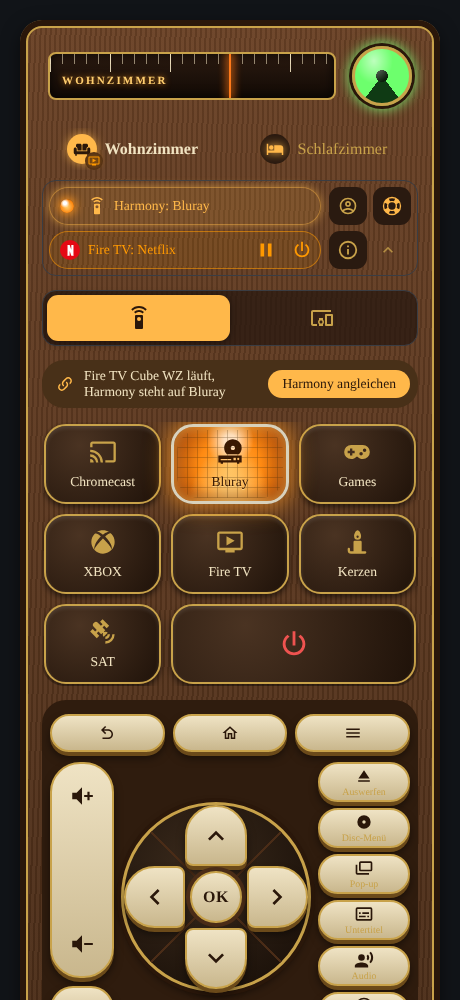
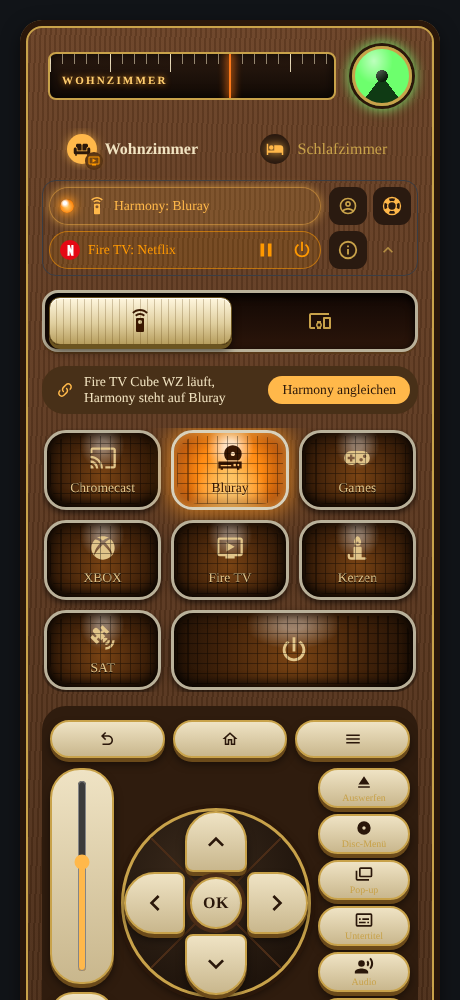
0.15.2: skin polish (lamp tiles, toggle, rocker plate, wedge slider, unified Terminal active state)
Claude-Session: https://claude.ai/code/session_01C4mVoyL7euChyLVoviBRrn

Changed region(s): [[0.0913, 0.279, 0.913, 1.0]]

diff --git a/custom_components/harmony_deck/frontend/harmony-deck-card.js b/custom_components/harmony_deck/frontend/harmony-deck-card.js
@@ -191,7 +191,7 @@
   var esc = (s) => String(s).replace(/[&<>"]/g, (c) => ({ "&": "&amp;", "<": "&lt;", ">": "&gt;", '"': "&quot;" })[c]);
 
   // src/shared/version.js
-  var VERSION = "0.15.1";
+  var VERSION = "0.15.2";
 
   // src/shared/i18n.js
   var TEXT_URL = "/harmony_deck/translations";
@@ -4920,13 +4920,23 @@ ${a.steps.map((x, i) => `${i + 1}. ${stepLabel(x, t, this)}`).join("\n")}` : a.n
       ${T} .grid { grid-template-columns: 1fr !important; gap: 4px !important; }
       ${T} .tile:not(.dev) { display: flex; flex-direction: row; justify-content: flex-start; align-items: center; gap: 10px; text-align: left; padding: 8px 12px; min-height: 44px; }
       ${T} .tile:not(.dev)::before { content: ">"; color: #1fa63f; margin-right: 2px; }
-      ${T} .tile.on { background: #3dff6b; color: #021a05; text-shadow: none; }
+      ${T} .tile.on, ${T} .tile.dev.sel, ${T} .actbtn.acton, ${T} .key.sel, ${T} .mini.sel { background: #3dff6b; color: #021a05; text-shadow: none; box-shadow: 0 0 14px rgba(61,255,107,.55); outline: none; }
       ${T} .tile.on:not(.dev)::before { content: "\\25B6"; color: #021a05; }
-      ${T} .tile.on ha-icon, ${T} .tile.on span { color: #021a05; filter: none; text-shadow: none; }
-      ${T} .sw i { border-radius: 0; background: #021a05; border: 1px solid #1fa63f; }
-      ${T} .sw i::after { border-radius: 0; width: 20px; height: 20px; top: 3px; background: #1fa63f; }
-      ${T} .sw input:checked + i { background: rgba(61,255,107,.2); }
-      ${T} .sw input:checked + i::after { transform: translateX(20px); background: #3dff6b; box-shadow: 0 0 8px #3dff6b; }
+      ${T} .tile.on ha-icon, ${T} .tile.on span, ${T} .tile.on small, ${T} .tile.dev.sel ha-icon, ${T} .tile.dev.sel span, ${T} .tile.dev.sel small, ${T} .actbtn.acton *, ${T} .key.sel *, ${T} .mini.sel * { color: #021a05 !important; filter: none; text-shadow: none; }
+      /* switches: off = hollow block, on = filled block (like the active tiles) */
+      ${T} .sw:has(> input) i { border-radius: 0; background: #021a05; border: 1px solid #3dff6b; }
+      ${T} .sw:has(> input) i::after { border-radius: 0; width: 20px; height: 20px; top: 3px; background: #1fa63f; }
+      ${T} .sw:has(> input) input:checked + i { background: #3dff6b; box-shadow: 0 0 10px rgba(61,255,107,.6); }
+      ${T} .sw:has(> input) input:checked + i::after { transform: translateX(20px); background: #021a05; box-shadow: none; }
+      /* the Activities / Devices switch: the block jumps over */
+      ${T} .seg { background: #021a05; border: 1px solid #3dff6b; border-radius: 0; padding: 3px; box-shadow: none; }
+      ${T} .seg .th { border-radius: 0; background: #3dff6b; box-shadow: 0 0 12px rgba(61,255,107,.6); }
+      ${T} .seg .lab { border-radius: 0; color: #3dff6b; } ${T} .seg .lab.a { color: #021a05; font-weight: 700; } ${T} .seg .lab.a * { text-shadow: none; }
+      /* volume slider: a bar of green blocks (like a loading bar) */
+      ${T} .volslider.h { -webkit-appearance: none; appearance: none; height: 28px; min-height: 28px; border: 1px solid #3dff6b; background: repeating-linear-gradient(90deg, #3dff6b 0 8px, transparent 8px 11px) 3px 3px / calc((100% - 6px) * var(--v, 0) / 100) calc(100% - 6px) no-repeat, #021a05; box-shadow: 0 0 8px rgba(61,255,107,.4); }
+      ${T} .volslider.h::-webkit-slider-runnable-track { height: 28px; background: transparent; } ${T} .volslider.h::-moz-range-track { height: 28px; background: transparent; }
+      ${T} .volslider.h::-webkit-slider-thumb { -webkit-appearance: none; width: 6px; height: 28px; border-radius: 0; background: #b8ffc9; border: none; box-shadow: 0 0 8px #3dff6b; }
+      ${T} .volslider.h::-moz-range-thumb { width: 6px; height: 28px; border-radius: 0; background: #b8ffc9; border: none; }
       @keyframes skroll { from { transform: translateY(-120px); } to { transform: translateY(1400px); } }
       @keyframes sksnow { 0% { background-position: 0 0; } 33% { background-position: -40px 25px; } 66% { background-position: 30px -50px; } 100% { background-position: 0 0; } }
       @keyframes skflick { 0%, 92%, 100% { filter: none; transform: none; } 93% { filter: brightness(1.25); transform: translateX(2px); } 94% { filter: brightness(.8); transform: translateX(-3px) skewX(1deg); } 95% { filter: none; transform: none; } }
@@ -4948,13 +4958,18 @@ ${a.steps.map((x, i) => `${i + 1}. ${stepLabel(x, t, this)}`).join("\n")}` : a.n
         --w: calc((1 - var(--eye, .5)) * 150deg);
         background: radial-gradient(circle at 50% 50%, #0c1f0c 0 15%, transparent 16%), conic-gradient(from 0deg, #6dff6d 0 calc(180deg - var(--w) / 2), #0f3a14 0 calc(180deg + var(--w) / 2), #6dff6d 0), radial-gradient(circle, #0a1a0a, #041004); }
       ${R} .skin-eye::after { content: ""; position: absolute; inset: 0; border-radius: 50%; background: radial-gradient(ellipse at 35% 22%, rgba(255,255,255,.55), transparent 38%); }
-      ${R} .tile { border: 2px solid #c8a24a; background: radial-gradient(circle at 30% 25%, #4a3322, #1f1209); box-shadow: inset 0 2px 4px rgba(255,255,255,.12), 0 3px 6px rgba(0,0,0,.6); }
-      ${R} .tile.on { position: relative; color: #3a1802; border: 3px solid #d9d2bc; text-shadow: 0 1px 0 rgba(255,220,150,.7);
+      /* every tile is a pilot lamp under a wire grille: unlit = dark amber glass, lit (running / selected) = glowing */
+      ${R} .tile { position: relative; border: 3px solid #b9b19a; color: #e2c58a; text-shadow: 0 1px 0 rgba(0,0,0,.8);
+        background: radial-gradient(ellipse at 50% 16%, rgba(255,255,255,.38) 0 6%, rgba(255,255,255,0) 28%), radial-gradient(circle at 50% 58%, #7a4414 0, #43230a 55%, #1d0f05 100%);
+        box-shadow: inset 0 0 14px rgba(0,0,0,.8), inset 0 -6px 10px rgba(0,0,0,.5), 0 3px 6px rgba(0,0,0,.6); }
+      ${R} .tile:not(.locked):not(.edit-tile)::after { content: ""; position: absolute; inset: 3px; border-radius: inherit; pointer-events: none; opacity: .55;
+        background: repeating-linear-gradient(0deg, rgba(0,0,0,.65) 0 1.5px, transparent 1.5px 10px), repeating-linear-gradient(90deg, rgba(0,0,0,.65) 0 1.5px, transparent 1.5px 10px); }
+      ${R} .tile ha-icon { color: inherit; }
+      ${R} .tile.on, ${R} .tile.dev.sel, ${R} .actbtn.acton { position: relative; color: #3a1802; border: 3px solid #d9d2bc; text-shadow: 0 1px 0 rgba(255,220,150,.7); outline: none;
         background: radial-gradient(ellipse at 50% 18%, rgba(255,255,255,.75) 0 7%, rgba(255,255,255,0) 30%), radial-gradient(ellipse at 50% 120%, rgba(255,240,170,.9), rgba(255,240,170,0) 55%), radial-gradient(circle at 50% 55%, #ffb347 0, #ff8a12 45%, #a8480a 85%, #5a2403 100%);
         box-shadow: 0 0 22px 4px rgba(255,150,30,.65), inset 0 0 14px rgba(255,200,90,.7), inset 0 -6px 12px rgba(120,40,0,.55); }
-      ${R} .tile.on ha-icon { color: #3a1802; filter: none; }
-      ${R} .tile.on::after { content: ""; position: absolute; inset: 3px; border-radius: inherit; pointer-events: none; opacity: .5;
-        background: repeating-linear-gradient(0deg, rgba(60,40,10,.5) 0 1px, transparent 1px 10px), repeating-linear-gradient(90deg, rgba(60,40,10,.5) 0 1px, transparent 1px 10px); }
+      ${R} .tile.on ha-icon, ${R} .tile.dev.sel ha-icon, ${R} .tile.on small, ${R} .tile.dev.sel small, ${R} .actbtn.acton * { color: #3a1802; filter: none; }
+      ${R} .tile.on::after, ${R} .tile.dev.sel::after { opacity: .4; }
       ${R} .status.chip { box-shadow: 0 0 10px rgba(255,184,74,.55); }
       ${R} .status.chip.active::before { content: ""; flex: none; width: 14px; height: 14px; border-radius: 50%; margin-right: 6px;
         background: radial-gradient(circle at 35% 30%, #fff 0 12%, rgba(255,255,255,0) 35%), radial-gradient(circle at 50% 55%, #ffcf70, #ff8a12 60%, #7a3a05); box-shadow: 0 0 10px 2px rgba(255,150,30,.9); }
@@ -4964,14 +4979,31 @@ ${a.steps.map((x, i) => `${i + 1}. ${stepLabel(x, t, this)}`).join("\n")}` : a.n
       ${R} .key.mute.round, ${R} .key.mute { background: linear-gradient(180deg, #efe3c4, #c9b78d) !important; color: #2a170a !important; }
       ${R} .key.color { border-color: #2a170a; }
       ${R} .dpad { background: radial-gradient(circle at 40% 35%, #3a2a1c, #150c06); border: 3px solid #c8a24a; box-shadow: 0 0 0 4px #2a170a, 0 4px 10px rgba(0,0,0,.6); }
-      /* toggle switch: brass plate, lever up = ON (the plate glows), lever down = OFF */
-      ${R} .sw { width: 40px; height: 52px; margin-left: 6px; }
-      ${R} .sw i { border-radius: 10px; background: linear-gradient(180deg, #e6c869, #a98530); border: 2px solid #5c4210; box-shadow: inset 0 2px 3px rgba(255,255,255,.5), 0 3px 5px rgba(0,0,0,.6); }
-      ${R} .sw i::before { content: "AUS"; position: absolute; left: 0; right: 0; bottom: 2px; text-align: center; font: 700 8px Georgia, serif; color: #3a2808; letter-spacing: .06em; }
-      ${R} .sw input:checked + i::before { content: "AN"; top: 2px; bottom: auto; }
-      ${R} .sw i::after { width: 12px; height: 24px; left: 11px; top: 14px; border-radius: 6px; background: linear-gradient(90deg, #777, #fafafa 50%, #777); box-shadow: 0 3px 4px rgba(0,0,0,.6); transform: translateY(8px); }
-      ${R} .sw input:checked + i::after { transform: translateY(-8px); box-shadow: 0 -3px 4px rgba(0,0,0,.5); background: linear-gradient(90deg, #777, #fafafa 50%, #777); }
-      ${R} .sw input:checked + i { box-shadow: inset 0 2px 3px rgba(255,255,255,.5), 0 0 12px rgba(255,150,30,.6); }
+      /* toggle switch: brass nut, chrome lever up = ON (AN, nut glows) or down = OFF (AUS) */
+      ${R} .sw:has(> input) { position: relative; width: 46px; height: 70px; margin-left: 6px; flex: none; }
+      ${R} .sw:has(> input) i { background: none; border: none; box-shadow: none; }
+      ${R} .sw:has(> input) i::before { content: ""; position: absolute; left: 5px; right: 5px; top: 24px; height: 22px; border-radius: 50%; inset: auto; left: 5px; right: 5px; top: 24px; bottom: auto;
+        background: radial-gradient(circle at 40% 35%, #f6e2a2, #a98530 70%, #5c4210); box-shadow: 0 3px 5px rgba(0,0,0,.7); }
+      ${R} .sw:has(> input) input:checked + i::before { box-shadow: 0 3px 5px rgba(0,0,0,.7), 0 0 12px 3px rgba(255,150,30,.7); }
+      ${R} .sw:has(> input) i::after { content: ""; position: absolute; width: 10px; height: 23px; left: 18px; top: 35px; border-radius: 5px; transform: none; background: linear-gradient(90deg, #666, #f7f7f7 50%, #666); box-shadow: 0 3px 4px rgba(0,0,0,.6); }
+      ${R} .sw:has(> input) input:checked + i::after { top: 12px; transform: none; box-shadow: 0 -3px 4px rgba(0,0,0,.5); }
+      ${R} .sw:has(> input)::before { content: "AN"; position: absolute; left: 0; right: 0; top: 0; text-align: center; font: 700 9px Georgia, serif; color: #c8a24a; letter-spacing: .1em; }
+      ${R} .sw:has(> input)::after { content: "AUS"; position: absolute; left: 0; right: 0; bottom: 0; text-align: center; font: 700 9px Georgia, serif; color: #c8a24a; letter-spacing: .1em; }
+      /* the Activities / Devices switch: a bakelite rocker plate sliding over */
+      ${R} .seg { background: linear-gradient(#120804, #2b150a); border: 3px solid #b9b19a; border-radius: 16px; box-shadow: inset 0 3px 8px #000, 0 2px 0 #5a3a1a; padding: 5px; }
+      ${R} .seg .th { border: 1px solid #6b5420; border-radius: 11px; box-shadow: 0 4px 0 #6b5420, 0 6px 8px rgba(0,0,0,.6), inset 0 1px 0 #fff;
+        background: repeating-linear-gradient(90deg, transparent 0 6px, rgba(90,60,10,.25) 6px 7px), linear-gradient(180deg, #fff7df, #e0cf9f 55%, #b79e5e); }
+      ${R} .seg .lab { color: #c8a24a; text-shadow: 0 1px 0 #000; letter-spacing: .08em; } ${R} .seg .lab.a { color: #3a1802; text-shadow: 0 1px 0 rgba(255,255,255,.7); }
+      /* volume slider: a wedge from small to big with a brass knob */
+      ${R} .volslider.h { -webkit-appearance: none; appearance: none; height: 34px; min-height: 34px; background: transparent; }
+      ${R} .volslider.h::-webkit-slider-runnable-track { height: 22px; clip-path: polygon(0 88%, 100% 0, 100% 100%, 0 100%); box-shadow: inset 0 2px 4px #000;
+        background: linear-gradient(90deg, #ff9a1f, #ffd27a calc(var(--v, 0) * 1%), #2a1408 calc(var(--v, 0) * 1%)); }
+      ${R} .volslider.h::-moz-range-track { height: 22px; clip-path: polygon(0 88%, 100% 0, 100% 100%, 0 100%); background: #2a1408; }
+      ${R} .volslider.h::-moz-range-progress { height: 22px; clip-path: polygon(0 88%, 100% 0, 100% 100%, 0 100%); background: linear-gradient(90deg, #ff9a1f, #ffd27a); }
+      ${R} .volslider.h::-webkit-slider-thumb { -webkit-appearance: none; width: 30px; height: 30px; margin-top: -4px; border-radius: 50%; border: 2px solid #2a170a; background: radial-gradient(circle at 38% 32%, #fff3c4, #c9a23c 55%, #5c4210); box-shadow: 0 3px 5px rgba(0,0,0,.7); }
+      ${R} .volslider.h::-moz-range-thumb { width: 26px; height: 26px; border-radius: 50%; border: 2px solid #2a170a; background: radial-gradient(circle at 38% 32%, #fff3c4, #c9a23c 55%, #5c4210); }
+      /* round typewriter keys on the keyboard */
+      ${R} .kbrow .key, ${R} .kbarr .key, ${R} .kbud .key { border-radius: 999px; border: 3px solid #8f8f8f; background: radial-gradient(circle at 35% 28%, #fffaf0, #d9cba5 70%); box-shadow: 0 0 0 2px #2a170a, 0 4px 0 #3b2a14, 0 6px 8px rgba(0,0,0,.5); min-height: 38px; }
       ${R} .key.pwronoff { display: none; } ${R} .swpwr { padding: 6px 4px; }
       /* readable text on the light brass-cream surfaces: buttons of the editors, favourites and the small buttons */
       ${R} .mini, ${R} .editdone, ${R} button.txt, ${R} .egrp button:not(.tile):not(.key):not(.sel) { color: #2a170a; }
@@ -5559,7 +5591,7 @@ ${a.steps.map((x, i) => `${i + 1}. ${stepLabel(x, t, this)}`).join("\n")}` : a.n
       if (!s || this._edit || !r.volume || s.device !== r.volume || !deviceView && s.activity !== h.current) return "";
       const st = this._hass.states?.[s.entity];
       const lvl = this._volLive?.[h.id + (deviceView ? "/" + s.device : "")] ?? (st?.attributes?.volume_level != null ? Math.round(st.attributes.volume_level * 100) : 0);
-      return `<input type="range" class="volslider ${orient || "h"}" min="0" max="${s.cap}" value="${Math.min(lvl, s.cap)}" data-volhub="${h.id}" ${deviceView ? `data-voldev="${esc(s.device)}"` : ""} data-volrel="${s.release ? 1 : 0}" title="${Math.min(lvl, s.cap)} %" aria-label="${this._t().volume || "Volume"}">`;
+      return `<input type="range" class="volslider ${orient || "h"}" min="0" max="${s.cap}" value="${Math.min(lvl, s.cap)}" data-volhub="${h.id}" ${deviceView ? `data-voldev="${esc(s.device)}"` : ""} data-volrel="${s.release ? 1 : 0}" style="--v:${Math.round(Math.min(lvl, s.cap) / (s.cap || 100) * 100)}" title="${Math.min(lvl, s.cap)} %" aria-label="${this._t().volume || "Volume"}">`;
     },
     async _volSend(hub, value, device) {
       const id = hub + (device ? "/" + device : "");
@@ -5583,6 +5615,7 @@ ${a.steps.map((x, i) => `${i + 1}. ${stepLabel(x, t, this)}`).join("\n")}` : a.n
         const live = () => {
           this._volLive = { ...this._volLive || {}, [id]: Number(el.value) };
           el.title = `${el.value} %`;
+          el.style.setProperty("--v", String(Math.round(Number(el.value) / (Number(el.max) || 100) * 100)));
         };
         const end = () => {
           clearTimeout(this._volEnd);

diff --git a/card/src/shared/skin-css.js b/card/src/shared/skin-css.js
@@ -33,13 +33,23 @@ export const SKIN_CSS = `
       ${T} .grid { grid-template-columns: 1fr !important; gap: 4px !important; }
       ${T} .tile:not(.dev) { display: flex; flex-direction: row; justify-content: flex-start; align-items: center; gap: 10px; text-align: left; padding: 8px 12px; min-height: 44px; }
       ${T} .tile:not(.dev)::before { content: ">"; color: #1fa63f; margin-right: 2px; }
-      ${T} .tile.on { background: #3dff6b; color: #021a05; text-shadow: none; }
+      ${T} .tile.on, ${T} .tile.dev.sel, ${T} .actbtn.acton, ${T} .key.sel, ${T} .mini.sel { background: #3dff6b; color: #021a05; text-shadow: none; box-shadow: 0 0 14px rgba(61,255,107,.55); outline: none; }
       ${T} .tile.on:not(.dev)::before { content: "\\25B6"; color: #021a05; }
-      ${T} .tile.on ha-icon, ${T} .tile.on span { color: #021a05; filter: none; text-shadow: none; }
-      ${T} .sw i { border-radius: 0; background: #021a05; border: 1px solid #1fa63f; }
-      ${T} .sw i::after { border-radius: 0; width: 20px; height: 20px; top: 3px; background: #1fa63f; }
-      ${T} .sw input:checked + i { background: rgba(61,255,107,.2); }
-      ${T} .sw input:checked + i::after { transform: translateX(20px); background: #3dff6b; box-shadow: 0 0 8px #3dff6b; }
+      ${T} .tile.on ha-icon, ${T} .tile.on span, ${T} .tile.on small, ${T} .tile.dev.sel ha-icon, ${T} .tile.dev.sel span, ${T} .tile.dev.sel small, ${T} .actbtn.acton *, ${T} .key.sel *, ${T} .mini.sel * { color: #021a05 !important; filter: none; text-shadow: none; }
+      /* switches: off = hollow block, on = filled block (like the active tiles) */
+      ${T} .sw:has(> input) i { border-radius: 0; background: #021a05; border: 1px solid #3dff6b; }
+      ${T} .sw:has(> input) i::after { border-radius: 0; width: 20px; height: 20px; top: 3px; background: #1fa63f; }
+      ${T} .sw:has(> input) input:checked + i { background: #3dff6b; box-shadow: 0 0 10px rgba(61,255,107,.6); }
+      ${T} .sw:has(> input) input:checked + i::after { transform: translateX(20px); background: #021a05; box-shadow: none; }
+      /* the Activities / Devices switch: the block jumps over */
+      ${T} .seg { background: #021a05; border: 1px solid #3dff6b; border-radius: 0; padding: 3px; box-shadow: none; }
+      ${T} .seg .th { border-radius: 0; background: #3dff6b; box-shadow: 0 0 12px rgba(61,255,107,.6); }
+      ${T} .seg .lab { border-radius: 0; color: #3dff6b; } ${T} .seg .lab.a { color: #021a05; font-weight: 700; } ${T} .seg .lab.a * { text-shadow: none; }
+      /* volume slider: a bar of green blocks (like a loading bar) */
+      ${T} .volslider.h { -webkit-appearance: none; appearance: none; height: 28px; min-height: 28px; border: 1px solid #3dff6b; background: repeating-linear-gradient(90deg, #3dff6b 0 8px, transparent 8px 11px) 3px 3px / calc((100% - 6px) * var(--v, 0) / 100) calc(100% - 6px) no-repeat, #021a05; box-shadow: 0 0 8px rgba(61,255,107,.4); }
+      ${T} .volslider.h::-webkit-slider-runnable-track { height: 28px; background: transparent; } ${T} .volslider.h::-moz-range-track { height: 28px; background: transparent; }
+      ${T} .volslider.h::-webkit-slider-thumb { -webkit-appearance: none; width: 6px; height: 28px; border-radius: 0; background: #b8ffc9; border: none; box-shadow: 0 0 8px #3dff6b; }
+      ${T} .volslider.h::-moz-range-thumb { width: 6px; height: 28px; border-radius: 0; background: #b8ffc9; border: none; }
       @keyframes skroll { from { transform: translateY(-120px); } to { transform: translateY(1400px); } }
       @keyframes sksnow { 0% { background-position: 0 0; } 33% { background-position: -40px 25px; } 66% { background-position: 30px -50px; } 100% { background-position: 0 0; } }
       @keyframes skflick { 0%, 92%, 100% { filter: none; transform: none; } 93% { filter: brightness(1.25); transform: translateX(2px); } 94% { filter: brightness(.8); transform: translateX(-3px) skewX(1deg); } 95% { filter: none; transform: none; } }
@@ -61,13 +71,18 @@ export const SKIN_CSS = `
         --w: calc((1 - var(--eye, .5)) * 150deg);
         background: radial-gradient(circle at 50% 50%, #0c1f0c 0 15%, transparent 16%), conic-gradient(from 0deg, #6dff6d 0 calc(180deg - var(--w) / 2), #0f3a14 0 calc(180deg + var(--w) / 2), #6dff6d 0), radial-gradient(circle, #0a1a0a, #041004); }
       ${R} .skin-eye::after { content: ""; position: absolute; inset: 0; border-radius: 50%; background: radial-gradient(ellipse at 35% 22%, rgba(255,255,255,.55), transparent 38%); }
-      ${R} .tile { border: 2px solid #c8a24a; background: radial-gradient(circle at 30% 25%, #4a3322, #1f1209); box-shadow: inset 0 2px 4px rgba(255,255,255,.12), 0 3px 6px rgba(0,0,0,.6); }
-      ${R} .tile.on { position: relative; color: #3a1802; border: 3px solid #d9d2bc; text-shadow: 0 1px 0 rgba(255,220,150,.7);
+      /* every tile is a pilot lamp under a wire grille: unlit = dark amber glass, lit (running / selected) = glowing */
+      ${R} .tile { position: relative; border: 3px solid #b9b19a; color: #e2c58a; text-shadow: 0 1px 0 rgba(0,0,0,.8);
+        background: radial-gradient(ellipse at 50% 16%, rgba(255,255,255,.38) 0 6%, rgba(255,255,255,0) 28%), radial-gradient(circle at 50% 58%, #7a4414 0, #43230a 55%, #1d0f05 100%);
+        box-shadow: inset 0 0 14px rgba(0,0,0,.8), inset 0 -6px 10px rgba(0,0,0,.5), 0 3px 6px rgba(0,0,0,.6); }
+      ${R} .tile:not(.locked):not(.edit-tile)::after { content: ""; position: absolute; inset: 3px; border-radius: inherit; pointer-events: none; opacity: .55;
+        background: repeating-linear-gradient(0deg, rgba(0,0,0,.65) 0 1.5px, transparent 1.5px 10px), repeating-linear-gradient(90deg, rgba(0,0,0,.65) 0 1.5px, transparent 1.5px 10px); }
+      ${R} .tile ha-icon { color: inherit; }
+      ${R} .tile.on, ${R} .tile.dev.sel, ${R} .actbtn.acton { position: relative; color: #3a1802; border: 3px solid #d9d2bc; text-shadow: 0 1px 0 rgba(255,220,150,.7); outline: none;
         background: radial-gradient(ellipse at 50% 18%, rgba(255,255,255,.75) 0 7%, rgba(255,255,255,0) 30%), radial-gradient(ellipse at 50% 120%, rgba(255,240,170,.9), rgba(255,240,170,0) 55%), radial-gradient(circle at 50% 55%, #ffb347 0, #ff8a12 45%, #a8480a 85%, #5a2403 100%);
         box-shadow: 0 0 22px 4px rgba(255,150,30,.65), inset 0 0 14px rgba(255,200,90,.7), inset 0 -6px 12px rgba(120,40,0,.55); }
-      ${R} .tile.on ha-icon { color: #3a1802; filter: none; }
-      ${R} .tile.on::after { content: ""; position: absolute; inset: 3px; border-radius: inherit; pointer-events: none; opacity: .5;
-        background: repeating-linear-gradient(0deg, rgba(60,40,10,.5) 0 1px, transparent 1px 10px), repeating-linear-gradient(90deg, rgba(60,40,10,.5) 0 1px, transparent 1px 10px); }
+      ${R} .tile.on ha-icon, ${R} .tile.dev.sel ha-icon, ${R} .tile.on small, ${R} .tile.dev.sel small, ${R} .actbtn.acton * { color: #3a1802; filter: none; }
+      ${R} .tile.on::after, ${R} .tile.dev.sel::after { opacity: .4; }
       ${R} .status.chip { box-shadow: 0 0 10px rgba(255,184,74,.55); }
       ${R} .status.chip.active::before { content: ""; flex: none; width: 14px; height: 14px; border-radius: 50%; margin-right: 6px;
         background: radial-gradient(circle at 35% 30%, #fff 0 12%, rgba(255,255,255,0) 35%), radial-gradient(circle at 50% 55%, #ffcf70, #ff8a12 60%, #7a3a05); box-shadow: 0 0 10px 2px rgba(255,150,30,.9); }
@@ -77,14 +92,31 @@ export const SKIN_CSS = `
       ${R} .key.mute.round, ${R} .key.mute { background: linear-gradient(180deg, #efe3c4, #c9b78d) !important; color: #2a170a !important; }
       ${R} .key.color { border-color: #2a170a; }
       ${R} .dpad { background: radial-gradient(circle at 40% 35%, #3a2a1c, #150c06); border: 3px solid #c8a24a; box-shadow: 0 0 0 4px #2a170a, 0 4px 10px rgba(0,0,0,.6); }
-      /* toggle switch: brass plate, lever up = ON (the plate glows), lever down = OFF */
-      ${R} .sw { width: 40px; height: 52px; margin-left: 6px; }
-      ${R} .sw i { border-radius: 10px; background: linear-gradient(180deg, #e6c869, #a98530); border: 2px solid #5c4210; box-shadow: inset 0 2px 3px rgba(255,255,255,.5), 0 3px 5px rgba(0,0,0,.6); }
-      ${R} .sw i::before { content: "AUS"; position: absolute; left: 0; right: 0; bottom: 2px; text-align: center; font: 700 8px Georgia, serif; color: #3a2808; letter-spacing: .06em; }
-      ${R} .sw input:checked + i::before { content: "AN"; top: 2px; bottom: auto; }
-      ${R} .sw i::after { width: 12px; height: 24px; left: 11px; top: 14px; border-radius: 6px; background: linear-gradient(90deg, #777, #fafafa 50%, #777); box-shadow: 0 3px 4px rgba(0,0,0,.6); transform: translateY(8px); }
-      ${R} .sw input:checked + i::after { transform: translateY(-8px); box-shadow: 0 -3px 4px rgba(0,0,0,.5); background: linear-gradient(90deg, #777, #fafafa 50%, #777); }
-      ${R} .sw input:checked + i { box-shadow: inset 0 2px 3px rgba(255,255,255,.5), 0 0 12px rgba(255,150,30,.6); }
+      /* toggle switch: brass nut, chrome lever up = ON (AN, nut glows) or down = OFF (AUS) */
+      ${R} .sw:has(> input) { position: relative; width: 46px; height: 70px; margin-left: 6px; flex: none; }
+      ${R} .sw:has(> input) i { background: none; border: none; box-shadow: none; }
+      ${R} .sw:has(> input) i::before { content: ""; position: absolute; left: 5px; right: 5px; top: 24px; height: 22px; border-radius: 50%; inset: auto; left: 5px; right: 5px; top: 24px; bottom: auto;
+        background: radial-gradient(circle at 40% 35%, #f6e2a2, #a98530 70%, #5c4210); box-shadow: 0 3px 5px rgba(0,0,0,.7); }
+      ${R} .sw:has(> input) input:checked + i::before { box-shadow: 0 3px 5px rgba(0,0,0,.7), 0 0 12px 3px rgba(255,150,30,.7); }
+      ${R} .sw:has(> input) i::after { content: ""; position: absolute; width: 10px; height: 23px; left: 18px; top: 35px; border-radius: 5px; transform: none; background: linear-gradient(90deg, #666, #f7f7f7 50%, #666); box-shadow: 0 3px 4px rgba(0,0,0,.6); }
+      ${R} .sw:has(> input) input:checked + i::after { top: 12px; transform: none; box-shadow: 0 -3px 4px rgba(0,0,0,.5); }
+      ${R} .sw:has(> input)::before { content: "AN"; position: absolute; left: 0; right: 0; top: 0; text-align: center; font: 700 9px Georgia, serif; color: #c8a24a; letter-spacing: .1em; }
+      ${R} .sw:has(> input)::after { content: "AUS"; position: absolute; left: 0; right: 0; bottom: 0; text-align: center; font: 700 9px Georgia, serif; color: #c8a24a; letter-spacing: .1em; }
+      /* the Activities / Devices switch: a bakelite rocker plate sliding over */
+      ${R} .seg { background: linear-gradient(#120804, #2b150a); border: 3px solid #b9b19a; border-radius: 16px; box-shadow: inset 0 3px 8px #000, 0 2px 0 #5a3a1a; padding: 5px; }
+      ${R} .seg .th { border: 1px solid #6b5420; border-radius: 11px; box-shadow: 0 4px 0 #6b5420, 0 6px 8px rgba(0,0,0,.6), inset 0 1px 0 #fff;
+        background: repeating-linear-gradient(90deg, transparent 0 6px, rgba(90,60,10,.25) 6px 7px), linear-gradient(180deg, #fff7df, #e0cf9f 55%, #b79e5e); }
+      ${R} .seg .lab { color: #c8a24a; text-shadow: 0 1px 0 #000; letter-spacing: .08em; } ${R} .seg .lab.a { color: #3a1802; text-shadow: 0 1px 0 rgba(255,255,255,.7); }
+      /* volume slider: a wedge from small to big with a brass knob */
+      ${R} .volslider.h { -webkit-appearance: none; appearance: none; height: 34px; min-height: 34px; background: transparent; }
+      ${R} .volslider.h::-webkit-slider-runnable-track { height: 22px; clip-path: polygon(0 88%, 100% 0, 100% 100%, 0 100%); box-shadow: inset 0 2px 4px #000;
+        background: linear-gradient(90deg, #ff9a1f, #ffd27a calc(var(--v, 0) * 1%), #2a1408 calc(var(--v, 0) * 1%)); }
+      ${R} .volslider.h::-moz-range-track { height: 22px; clip-path: polygon(0 88%, 100% 0, 100% 100%, 0 100%); background: #2a1408; }
+      ${R} .volslider.h::-moz-range-progress { height: 22px; clip-path: polygon(0 88%, 100% 0, 100% 100%, 0 100%); background: linear-gradient(90deg, #ff9a1f, #ffd27a); }
+      ${R} .volslider.h::-webkit-slider-thumb { -webkit-appearance: none; width: 30px; height: 30px; margin-top: -4px; border-radius: 50%; border: 2px solid #2a170a; background: radial-gradient(circle at 38% 32%, #fff3c4, #c9a23c 55%, #5c4210); box-shadow: 0 3px 5px rgba(0,0,0,.7); }
+      ${R} .volslider.h::-moz-range-thumb { width: 26px; height: 26px; border-radius: 50%; border: 2px solid #2a170a; background: radial-gradient(circle at 38% 32%, #fff3c4, #c9a23c 55%, #5c4210); }
+      /* round typewriter keys on the keyboard */
+      ${R} .kbrow .key, ${R} .kbarr .key, ${R} .kbud .key { border-radius: 999px; border: 3px solid #8f8f8f; background: radial-gradient(circle at 35% 28%, #fffaf0, #d9cba5 70%); box-shadow: 0 0 0 2px #2a170a, 0 4px 0 #3b2a14, 0 6px 8px rgba(0,0,0,.5); min-height: 38px; }
       ${R} .key.pwronoff { display: none; } ${R} .swpwr { padding: 6px 4px; }
       /* readable text on the light brass-cream surfaces: buttons of the editors, favourites and the small buttons */
       ${R} .mini, ${R} .editdone, ${R} button.txt, ${R} .egrp button:not(.tile):not(.key):not(.sel) { color: #2a170a; }

diff --git a/card/src/deck/volslider.js b/card/src/deck/volslider.js
@@ -35,7 +35,7 @@ export const volSliderMixin = {
     if (!s || this._edit || !r.volume || s.device !== r.volume || (!deviceView && s.activity !== h.current)) return "";
     const st = this._hass.states?.[s.entity];
     const lvl = this._volLive?.[h.id + (deviceView ? "/" + s.device : "")] ?? (st?.attributes?.volume_level != null ? Math.round(st.attributes.volume_level * 100) : 0);
-    return `<input type="range" class="volslider ${orient || "h"}" min="0" max="${s.cap}" value="${Math.min(lvl, s.cap)}" data-volhub="${h.id}" ${deviceView ? `data-voldev="${esc(s.device)}"` : ""} data-volrel="${s.release ? 1 : 0}" title="${Math.min(lvl, s.cap)} %" aria-label="${this._t().volume || "Volume"}">`;
+    return `<input type="range" class="volslider ${orient || "h"}" min="0" max="${s.cap}" value="${Math.min(lvl, s.cap)}" data-volhub="${h.id}" ${deviceView ? `data-voldev="${esc(s.device)}"` : ""} data-volrel="${s.release ? 1 : 0}" style="--v:${Math.round((Math.min(lvl, s.cap) / (s.cap || 100)) * 100)}" title="${Math.min(lvl, s.cap)} %" aria-label="${this._t().volume || "Volume"}">`;
   },
 
   async _volSend(hub, value, device) {
@@ -56,7 +56,7 @@ export const volSliderMixin = {
       const release = el.dataset.volrel === "1";
       const dev = el.dataset.voldev || "";
       const id = hub + (dev ? "/" + dev : "");
-      const live = () => { this._volLive = { ...(this._volLive || {}), [id]: Number(el.value) }; el.title = `${el.value} %`; };
+      const live = () => { this._volLive = { ...(this._volLive || {}), [id]: Number(el.value) }; el.title = `${el.value} %`; el.style.setProperty("--v", String(Math.round((Number(el.value) / (Number(el.max) || 100)) * 100))); };
       const end = () => {
         clearTimeout(this._volEnd);
         // Let the device report the new level before the card follows the device again.

diff --git a/card/src/shared/version.js b/card/src/shared/version.js
@@ -1,3 +1,3 @@
 // Version of the card (must match manifest.json; tests/test_package.py checks it).
 
-export const VERSION = "0.15.1";
+export const VERSION = "0.15.2";

diff --git a/docs/HANDBUCH.md b/docs/HANDBUCH.md
@@ -92,7 +92,7 @@ Die Integration führt die Schritte aus, deshalb läuft eine Sequenz auch bei ge
 
 **Lautstärkeregler (0.14):** Ist das Lautstärke-Gerät der laufenden Aktivität in Einstellungen › Netzwerksteuerung verbunden, „Lautstärke direkt setzen statt per IR“ an und kann der Player einen Pegel annehmen, zeigt die Fernbedienung einen Regler statt Lauter/Leiser (Stumm bleibt). Die Integration hält den Pegel für jeden Nutzer an der Lautstärkegrenze, auch bei aktiver Sperre. LG Netcast setzt den Pegel erst beim Loslassen. Ohne direkte Steuerung bleiben die Tasten wie bisher.
 
-**Looks Terminal und Röhrenradio (0.15):** Einstellungen › Darstellung › Look. Terminal: grüner Leuchtschirm mit Störungen, Aktivitäten als Listenzeilen (die laufende invertiert), eckige Tasten. Röhrenradio: Holz und Messing, die laufende Aktivität als Glaslampe, ein magisches Auge, das der Lautstärke folgt, Kippschalter. Die Effekte liegen nur über der Karte; bei „Bewegung reduzieren“ im System stoppen die Animationen. **Lautstärkeregler in der Geräteansicht (0.15):** Ein Gerät mit „Lautstärke direkt setzen“ zeigt den Regler auch dort, an die Lautstärkegrenze gebunden, auch bei aktiver Sperre.
+**Looks Terminal und Röhrenradio (0.15):** Einstellungen › Darstellung › Look. Terminal: grüner Leuchtschirm mit Störungen, Aktivitäten als Listenzeilen (die laufende invertiert), eckige Tasten. Röhrenradio: Holz und Messing, die laufende Aktivität als Glaslampe, ein magisches Auge, das der Lautstärke folgt, Kippschalter. Die Effekte liegen nur über der Karte; bei „Bewegung reduzieren“ im System stoppen die Animationen. **0.15.2:** Im Röhrenradio ist jede Kachel eine Kontrolllampe (leuchtet = läuft oder gewählt), Schalter sind echte Kippschalter, der Umschalter Aktivitäten/Geräte eine Wippe; im Terminal ist „aktiv“ überall ein gefüllter grüner Block. **Lautstärkeregler in der Geräteansicht (0.15):** Ein Gerät mit „Lautstärke direkt setzen“ zeigt den Regler auch dort, an die Lautstärkegrenze gebunden, auch bei aktiver Sperre.
 
 **Fähigkeiten und „Neu einlesen“ (0.15.1):** Die Geräteseite listet alle Fähigkeiten („7 von 10“, gemerkte als „zuletzt gesehen“). Ein ausgeschalteter Player meldet Home Assistant wenig; Fähigkeiten und Eingänge, die bei eingeschaltetem Gerät gesehen wurden, werden gemerkt (auch über Neustarts). **Neu einlesen** (Administratoren) vergisst sie und liest jetzt: Gerät einschalten, Seite öffnen, Knopf drücken. Der Sensor „Fähigkeiten“ hat im Dialog ein Attribut pro Fähigkeit (Ja/Nein).
 

diff --git a/docs/MANUAL.md b/docs/MANUAL.md
@@ -92,7 +92,7 @@ The integration carries out the steps, so a sequence also finishes when the page
 
 **Volume slider (0.14):** if the volume device of the running activity is linked in Settings › Network control with "Set volume directly instead of via IR" on and the player can take a level, the remote shows a slider instead of volume up/down (mute stays). The level is held to the volume limit by the integration, for every user, also while the lock is on. LG Netcast sets the level on release only. Without direct control the keys stay as before.
 
-**Skins Terminal and Tube radio (0.15):** Settings › Appearance › Look. Terminal: green phosphor screen with interference, activities as list lines (the running one inverted), angular keys. Tube radio: wood and brass, the running activity as a glass lamp, a magic eye that follows the volume, toggle switches. The effects only lie over the card; with "reduce motion" in the system the animations stop. **Volume slider in the device view (0.15):** a device linked with "Set volume directly" shows the slider there as well, held to the volume limit, also while the lock is on.
+**Skins Terminal and Tube radio (0.15):** Settings › Appearance › Look. Terminal: green phosphor screen with interference, activities as list lines (the running one inverted), angular keys. Tube radio: wood and brass, the running activity as a glass lamp, a magic eye that follows the volume, toggle switches. The effects only lie over the card; with "reduce motion" in the system the animations stop. **0.15.2:** in Tube radio every tile is a pilot lamp (lit = running or selected), switches are real toggles, the Activities/Devices switch is a rocker plate; in Terminal "active" is a filled green block everywhere. **Volume slider in the device view (0.15):** a device linked with "Set volume directly" shows the slider there as well, held to the volume limit, also while the lock is on.
 
 **Capabilities and "Read again" (0.15.1):** the device page lists all capabilities ("7 of 10", remembered ones marked "last seen"). A player that is off reports little to Home Assistant; capabilities and inputs seen while it was on are remembered (also across restarts). **Read again** (administrators) forgets them and reads now: switch the device on first, open its page, press the button. The sensor "Capabilities" has one attribute per capability (yes/no) in its dialog.
 

diff --git a/README.md b/README.md
@@ -101,7 +101,7 @@ The full guide is the [manual](docs/MANUAL.md) (German: [Handbuch](docs/HANDBUCH
   <img src="docs/images/skins.png" width="32%" alt="Looks">
 </p>
 
-Two effect skins go further than colours: **Terminal** (green phosphor screen, scanlines, snow, a rolling bar and now and then a flicker; activities as list lines, the running one inverted) and **Tube radio** (wood and brass, the running activity as a glass pilot lamp, a magic eye that follows the volume, toggle switches). Effects only lie over the card, animations stop with "reduce motion".
+Two effect skins go further than colours: **Terminal** (green phosphor screen, scanlines, snow, a rolling bar and now and then a flicker; activities as list lines, the running one inverted) and **Tube radio** (wood and brass, every tile a pilot lamp (lit = running or selected), a magic eye that follows the volume, toggle switches, a rocker plate for Activities/Devices). Effects only lie over the card, animations stop with "reduce motion".
 
 <p align="center">
   <img src="docs/images/skin-terminal.png" width="32%" alt="Skin Terminal">

diff --git a/CHANGELOG.md b/CHANGELOG.md
@@ -1,5 +1,15 @@
 # Changelog
 
+## 0.15.2
+
+### Changed (skins, card only)
+- **Tube radio:** every tile (activities, devices) is now a pilot lamp under a wire grille: unlit = dark amber glass, running or selected = glowing. The On/Off switch is a real toggle (brass nut, chrome lever, AN above / AUS below). The Activities/Devices switch is a bakelite rocker plate that slides over. The horizontal volume slider is a wedge from small to big with a brass knob. Keyboard keys are round, like typewriter keys.
+- **Terminal:** "active" now looks the same everywhere: green block with dark text for the running activity, the selected device, the active tab and active keys. Switches are hollow when off and filled when on. The Activities/Devices switch is a block that jumps over, the volume slider is a bar of green blocks.
+
+### Notes
+- Not yet tested on real hardware. The vertical volume slider keeps its simple look in both skins.
+
+
 ## 0.15.1
 
 ### Fixed
